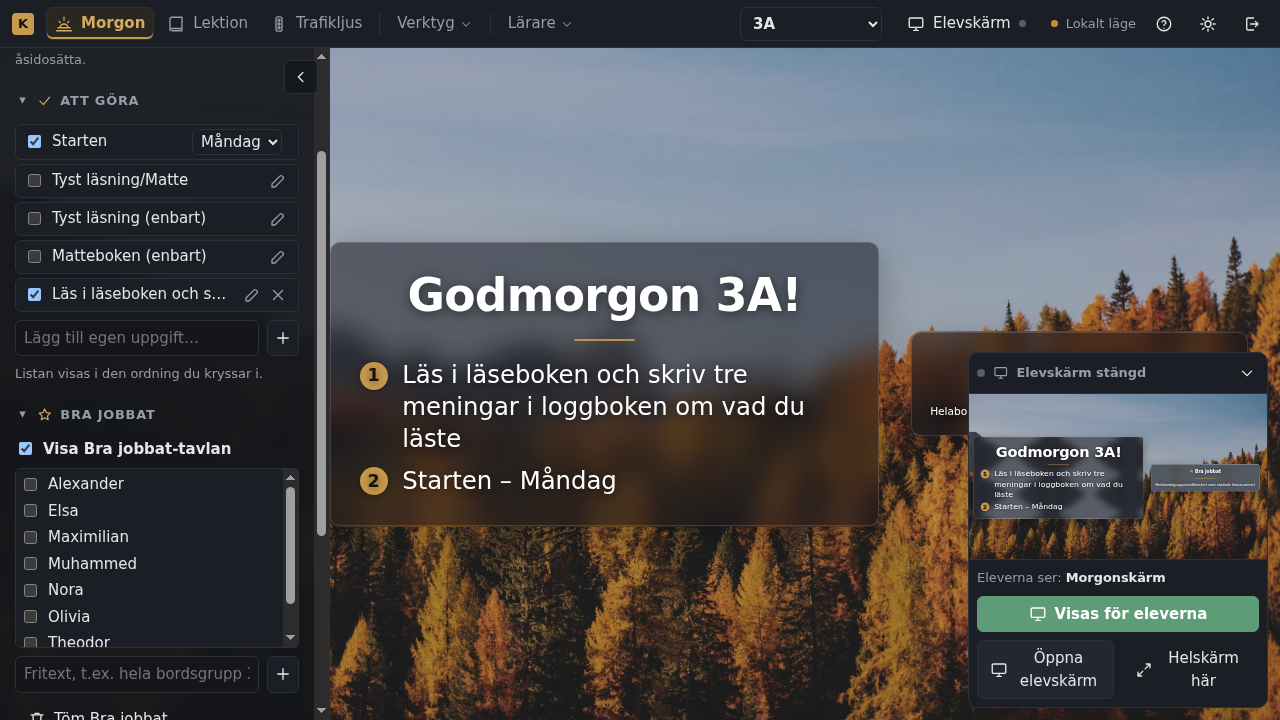
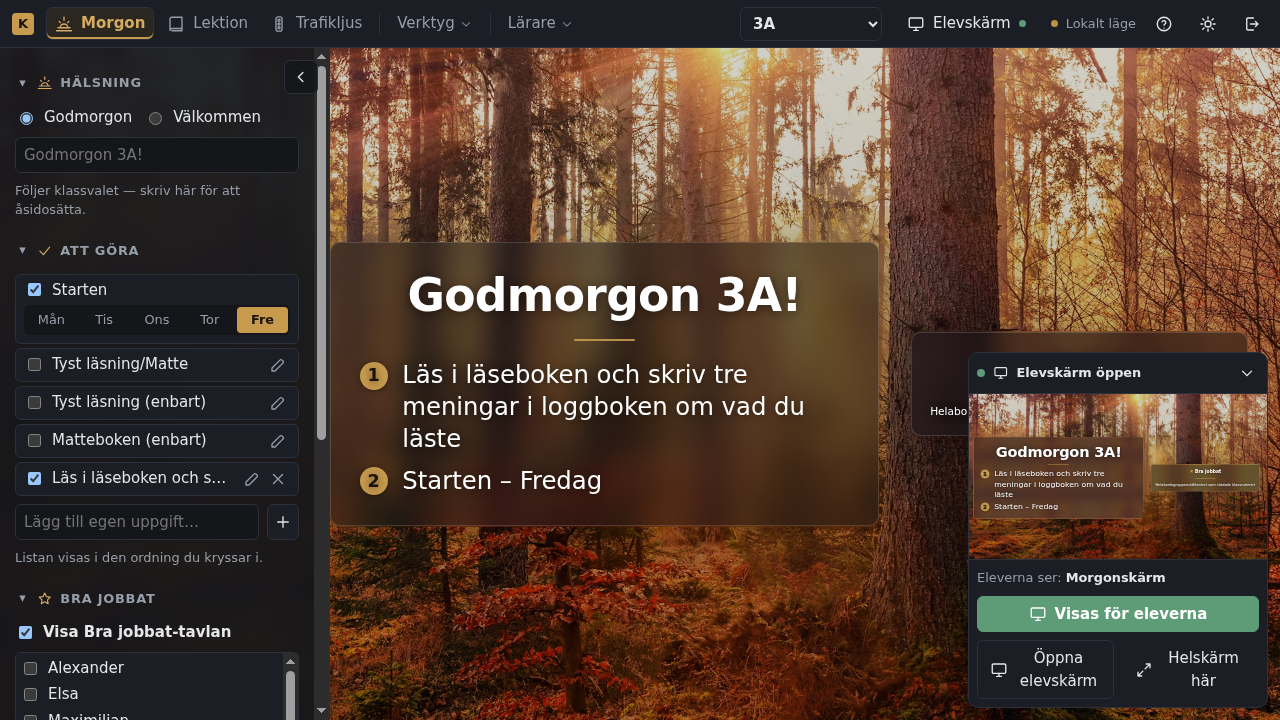
issue #85: Startens veckodag som dag-chips (Mån–Fre) på egen rad i stället för select
Lärarens önskemål: ett klick per byte, alltid synligt, ryms alltid i panelen.
Radiogroup med riktiga radioknappar (tangentbord/skärmläsare), accentfärger
låsta eftersom panelen alltid är mörk. Skärmdumpar och mätningar uppdaterade.

diff --git a/css/modes/morgon.css b/css/modes/morgon.css
@@ -326,8 +326,8 @@ html[data-theme="teacher"]:has(.morgon) { scrollbar-gutter: auto; }
 /* Uppgiftsrader. Kolumnen är minmax(0, 1fr): en lång uppgiftstext får inte
    bestämma listans bredd (issue #85 — en auto-kolumn växte till den längsta
    etikettens nowrap-bredd, alla rader blev bredare än panelen och Startens
-   veckodagsväljare trycktes ut). Etiketten trunkeras med ellips; väljaren
-   och pennorna krymper aldrig och syns alltid hela. */
+   veckodagsväljare trycktes ut). Etiketten trunkeras med ellips; pennorna
+   krymper aldrig och veckodagen ligger på egen rad (.morgon__days). */
 .morgon__tasklist { display: grid; grid-template-columns: minmax(0, 1fr); gap: var(--space-1); }
 .morgon__task {
   min-width: 0;
@@ -341,7 +341,48 @@ html[data-theme="teacher"]:has(.morgon) { scrollbar-gutter: auto; }
 }
 .morgon__task-main { display: flex; align-items: center; gap: var(--space-2); flex: 1; cursor: pointer; min-width: 0; }
 .morgon__task-label { overflow: hidden; text-overflow: ellipsis; white-space: nowrap; }
-.morgon__weekday { flex: none; max-width: 100%; padding: 2px var(--space-1); }
+.morgon__task:has(.morgon__days) { flex-wrap: wrap; row-gap: var(--space-1); }
+/* Startens veckodag som dag-chips på egen rad (issue #85): fem lika breda
+   knappar som delar radens bredd — ryms alltid, ett klick per byte. */
+.morgon__days {
+  flex: 1 0 100%;
+  display: grid;
+  grid-template-columns: repeat(5, minmax(0, 1fr));
+  gap: 2px;
+  padding: 2px;
+  border-radius: var(--radius-m);
+  background: var(--color-bg);
+  /* Panelen är alltid mörk — accenten följer med även i ljust lärarschema. */
+  --color-accent: #c79a4e;
+  --color-accent-text: #d5ab61;
+  --color-accent-ink: #17130a;
+}
+.morgon__day { position: relative; min-width: 0; }
+.morgon__day input {
+  position: absolute;
+  inset: 0;
+  opacity: 0;
+  margin: 0;
+  cursor: pointer;
+}
+.morgon__day span {
+  display: block;
+  padding: 3px 0;
+  border-radius: var(--radius-s);
+  text-align: center;
+  font-size: var(--text-s);
+  color: var(--color-ink-soft);
+  overflow: hidden;
+  text-overflow: ellipsis;
+  white-space: nowrap;
+}
+.morgon__day:hover span { background: var(--color-surface-alt); color: var(--color-ink); }
+.morgon__day input:checked + span {
+  background: var(--color-accent);
+  color: var(--color-accent-ink);
+  font-weight: 700;
+}
+.morgon__day input:focus-visible + span { outline: 2px solid var(--color-accent-text, var(--color-accent)); outline-offset: 1px; }
 .morgon__task-actions { display: inline-flex; gap: 2px; flex: none; }
 .morgon__task-btn {
   display: inline-grid;

diff --git a/js/modes/morgon.js b/js/modes/morgon.js
@@ -252,11 +252,11 @@ export default {
           commit(next);
           return;
         }
-        const sel = e.target.closest("select[data-weekday]");
-        if (sel) {
+        const day = e.target.closest("input[data-weekday]");
+        if (day?.checked) {
           const next = clone();
-          const t = next.tasks.find((x) => x.id === sel.dataset.weekday);
-          if (t) t.weekday = sel.value;
+          const t = next.tasks.find((x) => x.id === day.dataset.weekday);
+          if (t) t.weekday = day.value;
           commit(next);
         }
       });
@@ -390,9 +390,9 @@ export default {
           const t = settings.tasks.find((x) => x.id === cb.dataset.task);
           if (t) cb.checked = t.checked;
         });
-        taskList.querySelectorAll("select[data-weekday]").forEach((sel) => {
-          const t = settings.tasks.find((x) => x.id === sel.dataset.weekday);
-          if (t && sel !== document.activeElement) sel.value = t.weekday;
+        taskList.querySelectorAll("input[data-weekday]").forEach((day) => {
+          const t = settings.tasks.find((x) => x.id === day.dataset.weekday);
+          if (t) day.checked = day.value === t.weekday;
         });
         syncNtStudents();
         syncBgHint();
@@ -612,10 +612,15 @@ function bgSummaryHTML(bg) {
 }
 
 function taskRow(t) {
+  // Startens veckodag: dag-chips (Mån–Fre) på egen rad under namnet
+  // (issue #85) — ett klick, alltid synliga, får alltid plats i panelen.
   const control = t.kind === "starten"
-    ? `<select data-weekday="${escapeAttr(t.id)}" class="morgon__weekday" aria-label="Veckodag för Starten">
-         ${WEEKDAYS.map((d) => `<option value="${d}"${d === t.weekday ? " selected" : ""}>${d}</option>`).join("")}
-       </select>`
+    ? `<div class="morgon__days" role="radiogroup" aria-label="Veckodag för Starten">
+         ${WEEKDAYS.map((d) => `<label class="morgon__day" title="${d}">
+           <input type="radio" name="weekday-${escapeAttr(t.id)}" value="${d}" data-weekday="${escapeAttr(t.id)}" aria-label="${d}"${d === t.weekday ? " checked" : ""}>
+           <span aria-hidden="true">${d.slice(0, 3)}</span>
+         </label>`).join("")}
+       </div>`
     : "";
   const actions = t.kind === "custom"
     ? `<button class="morgon__task-btn" data-edit="${escapeAttr(t.id)}" title="Ändra elevtext" aria-label="Ändra elevtext">${icon("pencil")}</button>

diff --git a/docs/screenshots/issue-85/README.md b/docs/screenshots/issue-85/README.md
@@ -31,31 +31,41 @@ har `white-space: nowrap`, så en enda lång uppgift ("Läs i läseboken och skr
 …") gjorde kolumnen, och därmed alla rader, bredare än panelen. Startens
 veckodagsväljare hamnade då utanför panelens kant (`fore-1280-panel.png`).
 
-**Åtgärd** (`css/modes/morgon.css`): Listan, elevlistan under Bra jobbat och
-panelens scrollbehållare har kolumnen `minmax(0, 1fr)`. Etiketten trunkeras
-med ellips och visar hela texten som tooltip (`title`). Väljaren, pennorna
-och plusknapparna krymper aldrig. Inmatningsfälten har `min-width: 0`.
-Scrollbehållaren har `overflow-x: hidden` som skyddsnät. Panelens bredd och
-fällbara sektioner är oförändrade.
+**Åtgärd** (`js/modes/morgon.js`, `css/modes/morgon.css`):
+
+- **Veckodagen väljs med dag-chips** (Mån · Tis · Ons · Tor · Fre) på en egen
+  rad under "Starten", i stället för en select. Det är ett klick per byte,
+  alla dagar syns, och vald dag är markerad med accentfärgen. De fem chipsen
+  delar radens bredd lika, så de får alltid plats. Tekniskt är det en
+  radiogroup med riktiga radioknappar (piltangenter och skärmläsare fungerar,
+  aria-label "Måndag" …). Jag valde detta framför en smalare select eller
+  en bredare panel eftersom det är enklast för läraren och inte kräver
+  någon breddning.
+- **Uppgiftslistan följer panelens bredd:** listan, elevlistan under Bra
+  jobbat och panelens scrollbehållare har kolumnen `minmax(0, 1fr)`. Långa
+  uppgiftsnamn kortas med ellips och visar hela texten som tooltip. Pennorna
+  och plusknapparna krymper aldrig, och inmatningsfälten har
+  `min-width: 0`. `overflow-x: hidden` är ett skyddsnät.
+- Panelens bredd och de fällbara sektionerna är oförändrade.
 
 Uppmätt med alla fyra sektioner utfällda, en lång egen uppgift och en lång
 fritext i Bra jobbat. "Utanför" är antalet element vars högerkant ligger
 utanför `clientWidth`:
 
-| Viewport | scrollWidth | clientWidth | Utanför | Väljarens högerkant (px) |
+| Viewport | scrollWidth | clientWidth | Utanför | Dag-chips (x) |
 |---|---|---|---|---|
-| 1920×1080 | 336 | 336 | 0 | 304 |
-| 1366×768 | 314 | 314 | 0 | 282 |
-| 1280×720 | 314 | 314 | 0 | 282 |
-| Före, 1280×720 | 314* | 314 | 15+ | 522 |
+| 1920×1080 | 336 | 336 | 0 | 24–312 |
+| 1366×768 | 314 | 314 | 0 | 24–290 |
+| 1280×720 | 314 | 314 | 0 | 24–290 |
+| Före, 1280×720 | 314* | 314 | 15+ | select högerkant 522 |
 
 \* Före klipptes raderna i stället för att ge scroll, så `scrollWidth` visade
-inte felet. Stresstest efter åtgärden, med rotstorlek 20 px och en
-bredare väljare (monospace, extra padding), gav också 0 element utanför.
+inte felet. Med rotstorlek 20 px låg fortfarande 0 element utanför, och
+ingen chip-text trunkerades.
 
-Veckodagsväljaren gick att byta från Fredag till Måndag. Elevskärmen
-(`#/elev/morgon`) visade sedan "Starten – Måndag"
-(`efter-elevskarm-starten-mandag.png`).
+Klick på "Fre" gav "Starten – Fredag" på elevskärmen (`#/elev/morgon`).
+Klick på "Mån" gav sedan "Starten – Måndag"
+(`efter-elevskarm-starten-fredag.png`, `efter-elevskarm-starten-mandag.png`).
 
 - `fore-1280-panel.png`: FÖRE. Väljaren är utanför och raderna är klippta.
-- `efter-1920-panel.png`, `efter-1366-panel.png`, `efter-1280-panel.png`: EFTER
+- `efter-1920-panel.png`, `efter-1366-panel.png`, `efter-1280-panel.png`: EFTER, med dag-chips
